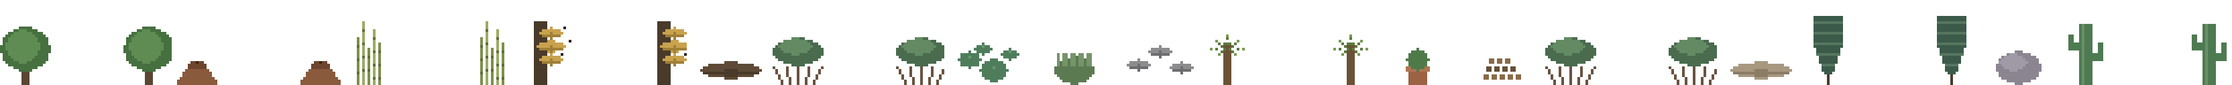
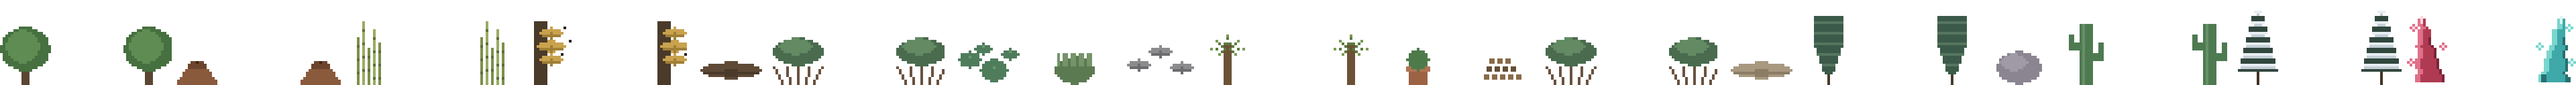
Scatter the new ground, and put the crystal where it belongs
The four tiles from phase 6 shipped with painted ground and nothing on it.
Bare ground is what made the old `hills` read as flat sand, and this
document's own conclusion is that detail belongs in the prop layers rather
than in the tile -- props sit at known positions that can be kept clear of
the figure, while a busy texture is everywhere at once.

**Decor**, the things lying on the ground: basalt shards, ash and a boulder
for the lava field; a buried stone, wind crust and a bare twig for snow;
cushion plants, weathered stone and crystal flowers for the sky island.
On snow the props are what shows *through* it -- a white ground gets its
depth from what it has not covered, so a dark twig does more there than
anywhere else.

**Features**, the tall things you walk past:

  * a **snow-laden pine**, and bigger than the hill one on purpose. It
    reaches row 4, this layer's ceiling, because a snowfield has no
    hedgerow, no scrub, no second storey -- it is the only vertical thing
    for a hundred tiles and should look it. The snow is drawn as the lit
    row of each tier rather than dusted on afterwards, which is where it
    actually sits on a conifer.
  * a **big crystal shard with sparkles**, in aqua and ruby. This layer
    already draws each feature twice, once leaning each way, so the pair
    costs nothing and an island turns up both seams.

**The crystal started in decor and did not belong there.** Decor is capped
[…]

Changed region(s): [[0.0, 0.1875, 0.7188, 1.0], [0.75, 0.1875, 1.0, 1.0]]

diff --git a/tools/build-features.js b/tools/build-features.js
@@ -198,6 +198,134 @@ function pine(side) {
   return pixels;
 }
 
+/**
+ * A snow-laden pine: taller than the hill pine, and white on every upward face.
+ *
+ * **Bigger on purpose.** The hill pine tops out at row 6; this reaches row 4, the ceiling this
+ * layer allows, because a snowfield has nothing else standing on it -- no hedgerow, no scrub, no
+ * second storey of vegetation. A tree that reads as ordinary among hills is the only vertical
+ * thing for a hundred tiles up here, and it should look it.
+ *
+ * The snow is drawn as the *lit* rows rather than as a separate pass: on a conifer the load sits
+ * on the upper surface of each tier, which is exactly the row the hill pine already lightens. So
+ * this is the same loop with white where the highlight was, which is both simpler and more
+ * correct than dusting a green tree afterwards.
+ */
+function snowPine(side) {
+  const pixels = canvas();
+  const cx = Math.round(CELL / 2 + side * OFFSET);
+  const needle = hex('#31473e');
+  const load = hex('#e8eef2');
+  const shade = hex('#c3ced6');
+
+  // Trunk first, so the tiers sit over it.
+  fill(pixels, cx, CELL - 5, cx, CELL - 1, hex('#403326'));
+
+  // **Widening downward, which the hill pine does not.** That one starts at width 1 at its base
+  // and grows as it climbs, so it draws a cone standing on its point -- an upside-down tree that
+  // has been on the sheet since it was written and reads as odd the moment anything else stands
+  // beside it. Here the width is a function of depth from the tip, which is the shape a conifer
+  // actually has.
+  const top = 4;                 // the ceiling this layer allows
+  const bottom = CELL - 6;
+  const height = bottom - top;
+  for (let y = top; y <= bottom; y += 1) {
+    const t = (y - top) / height;          // 0 at the tip, 1 at the skirt
+    const half = Math.round(1 + t * 6);
+    // Snow rides the top of each tier; the rows under it are needles in shadow. Drawing the load
+    // as the lit row rather than as a separate dusting pass is both simpler and truer -- on a
+    // conifer that is exactly where it sits.
+    const tier = (y - top) % 4;
+    if (tier === 0) {
+      fill(pixels, cx - half, y, cx + half, y, load);
+    } else if (tier === 1) {
+      fill(pixels, cx - half + 1, y, cx + half - 1, y, shade);
+    } else {
+      fill(pixels, cx - half, y, cx + half, y, needle);
+    }
+  }
+  return pixels;
+}
+
+/**
+ * A big shard of crystal jutting out of the ground, with sparkles.
+ *
+ * **Moved here from the decor sheet, and the move is the point.** Decor is what lies *on* the
+ * ground -- pebbles, litter, a shell -- drawn below the traveller and capped at a third of a cell.
+ * Crystal that low is gravel. A shard is a thing you walk *past*, which is this layer's whole
+ * definition: tall, offset to one side so it never sits behind the figure, and rare enough that
+ * meeting one is an event.
+ *
+ * One shard rather than a cluster. Three of a height read as a rock garden; one big one leaning
+ * out of the turf reads as something the ground did.
+ *
+ * **Every coordinate here is an integer**, which is not fussiness: `fill` steps by whole pixels
+ * from wherever it is given, so a fractional start lands between pixels and `plot` drops most of
+ * them. The first version of this passed fractions in and came out as scattered dots.
+ */
+function crystalShard(side) {
+  const pixels = canvas();
+  const cx = Math.round(CELL / 2 + side * OFFSET);
+  // **Two seams, one per side.** This layer already draws each feature twice -- once leaning
+  // left, once right -- so the pair costs nothing and a sky island turns up both aqua and ruby
+  // crystal rather than one repeated colour.
+  //
+  // Saturated on purpose. An earlier pass had these as pale quartz, on the reasoning that a
+  // bright crystal reads as loot in a naturalist's notebook -- which was reading the craft tree
+  // as if it were the whole setting. It is a solarpunk world; the crystal is meant to be seen.
+  const aqua = { body: '#3fa8a8', lit: '#79d6cf', deep: '#27706f', tip: '#d8f7f2' };
+  const ruby = { body: '#b03a52', lit: '#e0708a', deep: '#7a2438', tip: '#f8d9e0' };
+  const seam = side >= 0 ? aqua : ruby;
+  const body = hex(seam.body);
+  const lit = hex(seam.lit);
+  const deep = hex(seam.deep);
+  const tip = hex(seam.tip);
+
+  const base = CELL - 2;
+  const height = 24;          // to row 6: tall, and inside what this layer allows
+  const lean = side >= 0 ? 1 : -1;
+
+  for (let d = 0; d < height; d += 1) {
+    const t = d / height;
+    const y = base - d;
+    // Wide at the ground, tapering to a point: the profile of a shard rather than a column.
+    const half = Math.max(0, Math.round(5 * (1 - t * 0.86)));
+    const shift = Math.round(lean * t * 3);
+    fill(pixels, cx + shift - half, y, cx + shift + half, y, body);
+    // One lit facet down the leaning side, and a dark one opposite, so the shard reads as flat
+    // planes rather than a round spike. A highlight that wrapped would say "cylinder".
+    if (half > 0) {
+      fill(pixels, cx + shift - half, y, cx + shift - Math.max(0, half - 1), y, lit);
+      if (t < 0.7) plot(pixels, cx + shift + half, y, deep);
+    }
+  }
+  // The point.
+  const top = base - height;
+  fill(pixels, cx + Math.round(lean * 3), top, cx + Math.round(lean * 3), top + 2, tip);
+
+  // Sparkles: single bright pixels off the shard, in a plus so each reads as a glint rather than
+  // as dust. Placed by hand rather than randomly -- three is a constellation, and a scatter of
+  // ten is snow on the lens.
+  const glints = [
+    { x: cx + lean * 6, y: base - 20 },
+    { x: cx - lean * 5, y: base - 13 },
+    { x: cx + lean * 7, y: base - 7 }
+  ];
+  for (const g of glints) {
+    plot(pixels, g.x, g.y, tip);
+    plot(pixels, g.x - 1, g.y, lit);
+    plot(pixels, g.x + 1, g.y, lit);
+    plot(pixels, g.x, g.y - 1, lit);
+    plot(pixels, g.x, g.y + 1, lit);
+  }
+
+  // A couple of small offcuts at the foot, so the shard looks like it broke out of the ground
+  // rather than being placed on it.
+  fill(pixels, cx - lean * 4, base - 2, cx - lean * 3, base, deep);
+  fill(pixels, cx + lean * 5, base - 1, cx + lean * 6, base, deep);
+  return pixels;
+}
+
 /** An anthill: a cone of red earth with a dark mouth. */
 function anthill(side) {
   const pixels = canvas();
@@ -385,7 +513,11 @@ const FEATURES = [
   { id: 'driftwood-coast', sides: 1, draw: () => log({ body: '#a89880', shade: '#8b7c66' }) },
   { id: 'pine-hills', sides: 2, draw: pine },
   { id: 'boulder-hills', sides: 1, draw: boulder },
-  { id: 'cactus-desert', sides: 2, draw: cactus }
+  { id: 'cactus-desert', sides: 2, draw: cactus },
+  // The sub-biomes. A snowfield and a sky island each get one tall thing, which is the most
+  // this layer ever gives a ground -- and on those two it is the only vertical there is.
+  { id: 'pine-snow', sides: 2, draw: snowPine },
+  { id: 'crystal-sky_island', sides: 2, draw: crystalShard }
 ];
 
 /**

diff --git a/tools/build-decor.js b/tools/build-decor.js
@@ -249,7 +249,38 @@ const PROPS = [
 
   // --- shore ---
   { id: 'shell', biomes: ['coast'], draw: shell('#d9c6a4', '#efe2c6') },
-  { id: 'driftwood-small', biomes: ['coast'], draw: twig('#9a8c74') }
+  { id: 'driftwood-small', biomes: ['coast'], draw: twig('#9a8c74') },
+
+  // --- the sub-biomes -------------------------------------------------------------------
+  //
+  // Four grounds arrived with tiles and nothing on them. Bare ground is what made the old
+  // `hills` read as flat sand: the brief's own conclusion is that detail belongs in this layer
+  // rather than in the tile, because props sit at known positions that can be kept clear of the
+  // figure while a busy texture is everywhere at once.
+  //
+  // Colours are pulled toward each tile's declared base so a prop reads as part of its ground:
+  // lava #6b5f5c, snow #dfe3e8, sky island #a8c69b.
+
+  // Cooled basalt: shards off the flows, and the ash that collects between them.
+  { id: 'basalt-shard', biomes: ['lava_field'], draw: stones('#867b74', '#a2968e', 4) },
+  { id: 'ash-patch', biomes: ['lava_field'], draw: patch('#948a83', 5) },
+  { id: 'lava-boulder', biomes: ['lava_field'], draw: boulder('#7d726b', '#988c84') },
+
+  // Snow: what shows *through* it, which is the only way a white ground gets any depth. A buried
+  // stone and a wind crust read as snow precisely because they are the things it has not covered.
+  { id: 'snow-stone', biomes: ['snow'], draw: stones('#aab3bd', '#c8d0d8', 3) },
+  { id: 'wind-crust', biomes: ['snow'], draw: patch('#c6ced8', 6) },
+  // Bare twigs pushing through the crust: the only dark marks up there, and what stops a snowfield
+  // reading as a hole in the map.
+  { id: 'snow-twig', biomes: ['snow'], draw: twig('#6f665c') },
+
+  // Sky island: high thin-aired turf, so cushion plants and weathered stone rather than grass.
+  { id: 'cushion-plant', biomes: ['sky_island'], draw: patch('#7f9e74', 5) },
+  { id: 'sky-stone', biomes: ['sky_island'], draw: stones('#9aa294', '#b3baa8', 3) },
+  // The flowers that grow among the crystal. **The crystal itself moved to `features`**: decor is
+  // what lies on the ground and is capped at a third of a cell, which makes a formation gravel.
+  // A thing you walk *past* belongs on the sheet built for tall things.
+  { id: 'crystal-flower', biomes: ['sky_island'], draw: flower('#7f9e74', '#b8cdd2', '#e8f0f0') }
 ];
 
 /** A lily pad: a flat disc with a wedge cut out of it. */

diff --git a/src/game/frames.ts b/src/game/frames.ts
@@ -176,7 +176,17 @@ export const DECOR_ORDER = [
   'desert-stone',
   'dry-brush',
   'shell',
-  'driftwood-small'
+  'driftwood-small',
+  // The sub-biomes, in the order tools/build-decor.js emits them.
+  'basalt-shard',
+  'ash-patch',
+  'lava-boulder',
+  'snow-stone',
+  'wind-crust',
+  'snow-twig',
+  'cushion-plant',
+  'sky-stone',
+  'crystal-flower'
 ] as const;
 
 /**
@@ -201,9 +211,17 @@ export const DECOR_BY_BIOME: Partial<Record<BiomeId, readonly string[]>> = {
   hills: ['pebbles', 'twig', 'scree', 'boulder-small'],
   mountains: ['scree', 'boulder-small'],
   desert: ['desert-stone', 'dry-brush'],
-  coast: ['pebbles', 'shell', 'driftwood-small']
+  coast: ['pebbles', 'shell', 'driftwood-small'],
+  // Cooled basalt. The ash is what keeps it from reading as one flat dark tile.
+  lava_field: ['basalt-shard', 'ash-patch', 'lava-boulder'],
+  // On snow the props are what shows *through* it: a white ground gets its depth from the things
+  // it has not covered, so a buried stone and a bare twig do more here than they do anywhere else.
+  snow: ['snow-stone', 'wind-crust', 'snow-twig'],
+  // High turf, weathered stone, and the crystal the islands are known for.
+  sky_island: ['cushion-plant', 'sky-stone', 'crystal-flower']
   // `sea` is not walked on and `landmark` stays bare, so the destination is what the eye finds --
-  // the same two exclusions the overdraw layer makes, for the same reasons.
+  // the same two exclusions the overdraw layer makes, for the same reasons. `sky_underside` joins
+  // them: it is the far side of a boundary rather than ground, and nothing stands on it.
 };
 
 /** Frame index of one prop variant, or null if the name is not on the sheet. */
@@ -488,7 +506,11 @@ export const FEATURES: Record<string, { biome: BiomeId; frames: number[] }> = {
   driftwood: { biome: 'coast', frames: [20] },
   pine: { biome: 'hills', frames: [21, 22] },
   boulder: { biome: 'hills', frames: [23] },
-  cactus: { biome: 'desert', frames: [24, 25] }
+  cactus: { biome: 'desert', frames: [24, 25] },
+  // A snowfield and a sky island each get one tall thing, and on those two grounds it is
+  // the only vertical there is.
+  snowPine: { biome: 'snow', frames: [26, 27] },
+  crystalCluster: { biome: 'sky_island', frames: [28, 29] }
 };
 
 /**

diff --git a/test/frames.test.ts b/test/frames.test.ts
@@ -37,6 +37,7 @@ import {
   swayFrame,
   traceFrameFor
 } from '../src/game/frames';
+import biomesData from '../data/biomes.json';
 
 /** Width and height of a PNG, read straight from its IHDR. */
 function pngSize(file: string): { width: number; height: number } {
@@ -498,6 +499,25 @@ describe('the decor sheet and the code agree', () => {
         expect(DECOR_ORDER, `${biome} asks for ${prop}, which is not on the sheet`).toContain(prop);
       }
     }
+  });
+
+  it('gives every walkable ground something lying on it', () => {
+    // **The gap the four new tiles fell into.** `lava_field`, `snow`, `sky_island` and
+    // `sky_underside` shipped with painted ground and nothing on it, and every decor test passed:
+    // the table only checked that the props a biome *names* exist, so a biome naming none was
+    // silently fine. Bare ground is what made the old `hills` read as flat sand, and the brief's
+    // own conclusion is that detail belongs in this layer rather than in the tile.
+    //
+    // The exclusions are deliberate and named, so adding a biome cannot quietly join them:
+    // `sea` is not walked on, `landmark` stays clear so the thing standing on it is what the eye
+    // finds, and `sky_underside` is the far side of a boundary rather than ground.
+    const bare = new Set(['sea', 'landmark', 'sky_underside', 'open_sky', 'underworld']);
+    const walkable = (biomesData as { id: string; walkable: boolean }[])
+      .filter((b) => b.walkable && !bare.has(b.id))
+      .map((b) => b.id);
+
+    const without = walkable.filter((id) => !(DECOR_BY_BIOME as Record<string, unknown>)[id]);
+    expect(without, 'walkable ground with nothing lying on it').toEqual([]);
   });
 
   it('leaves the water and the landmark bare', () => {
